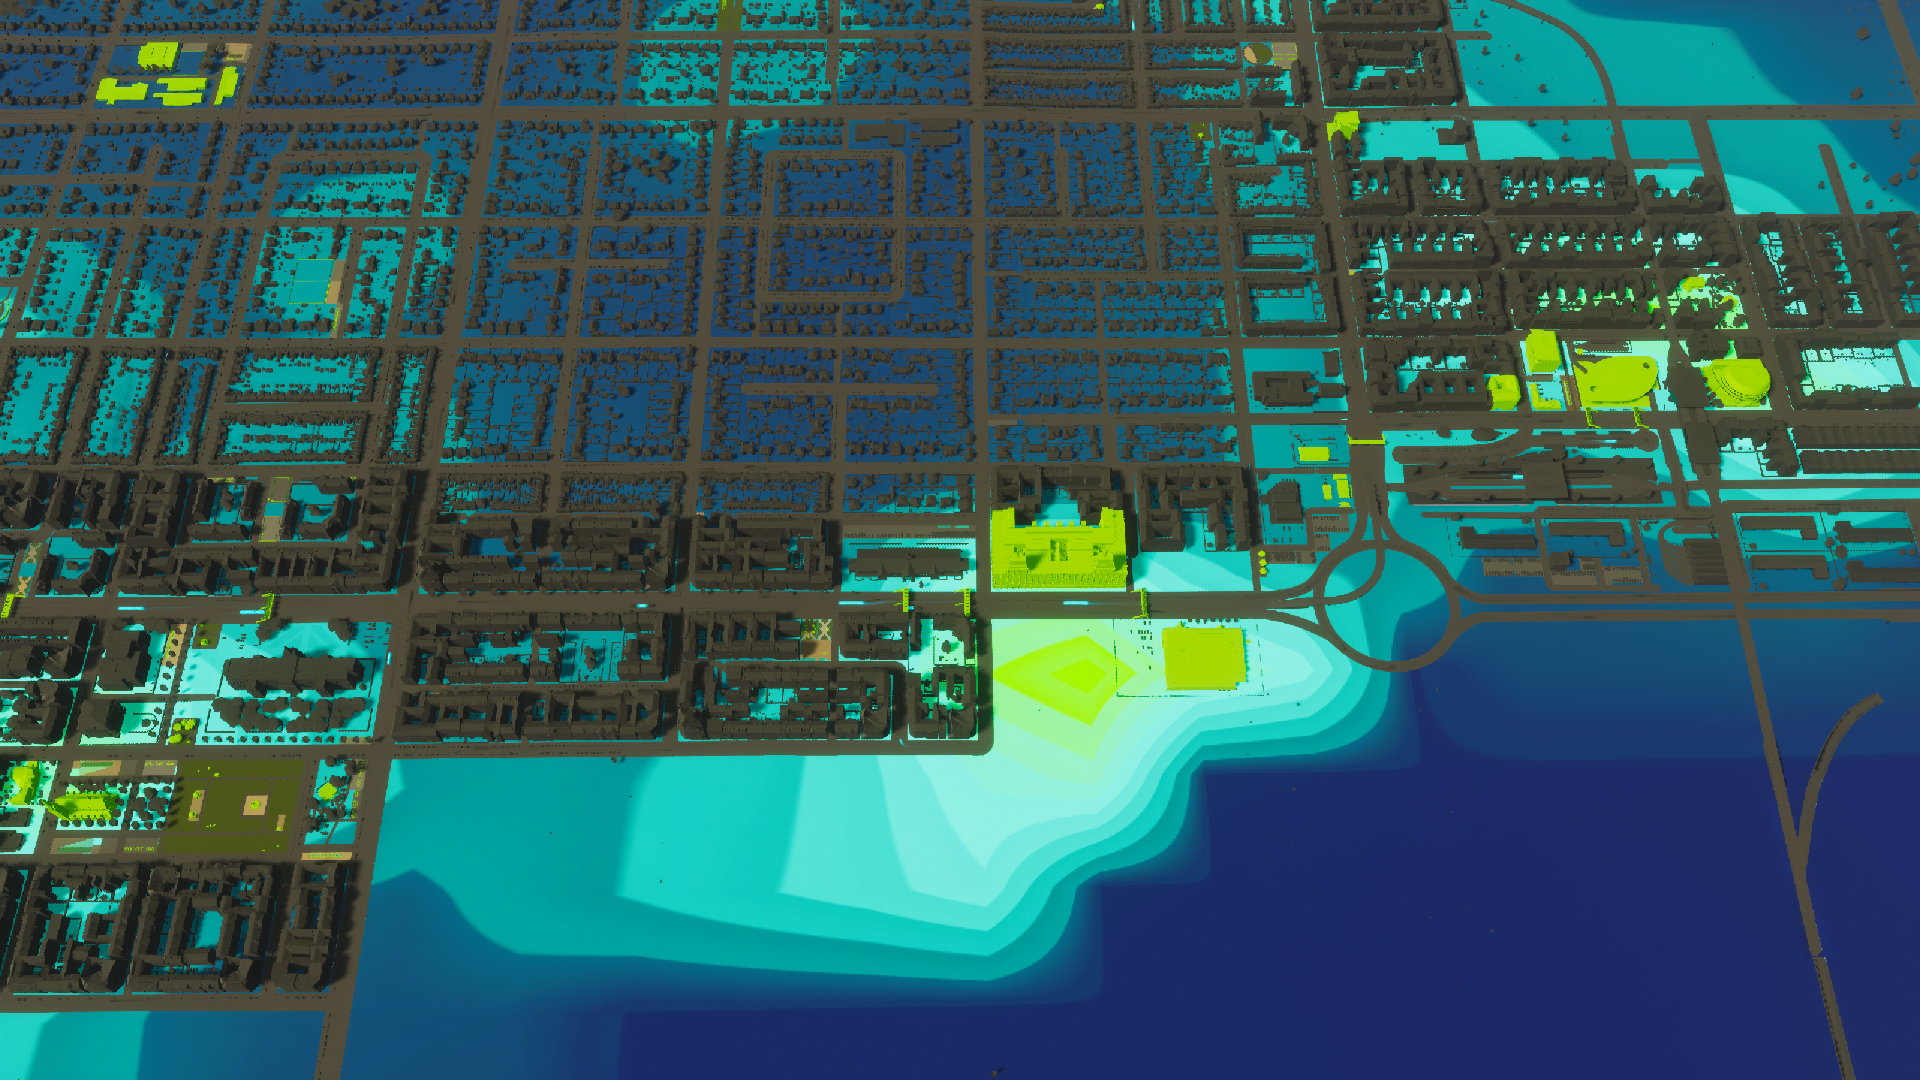
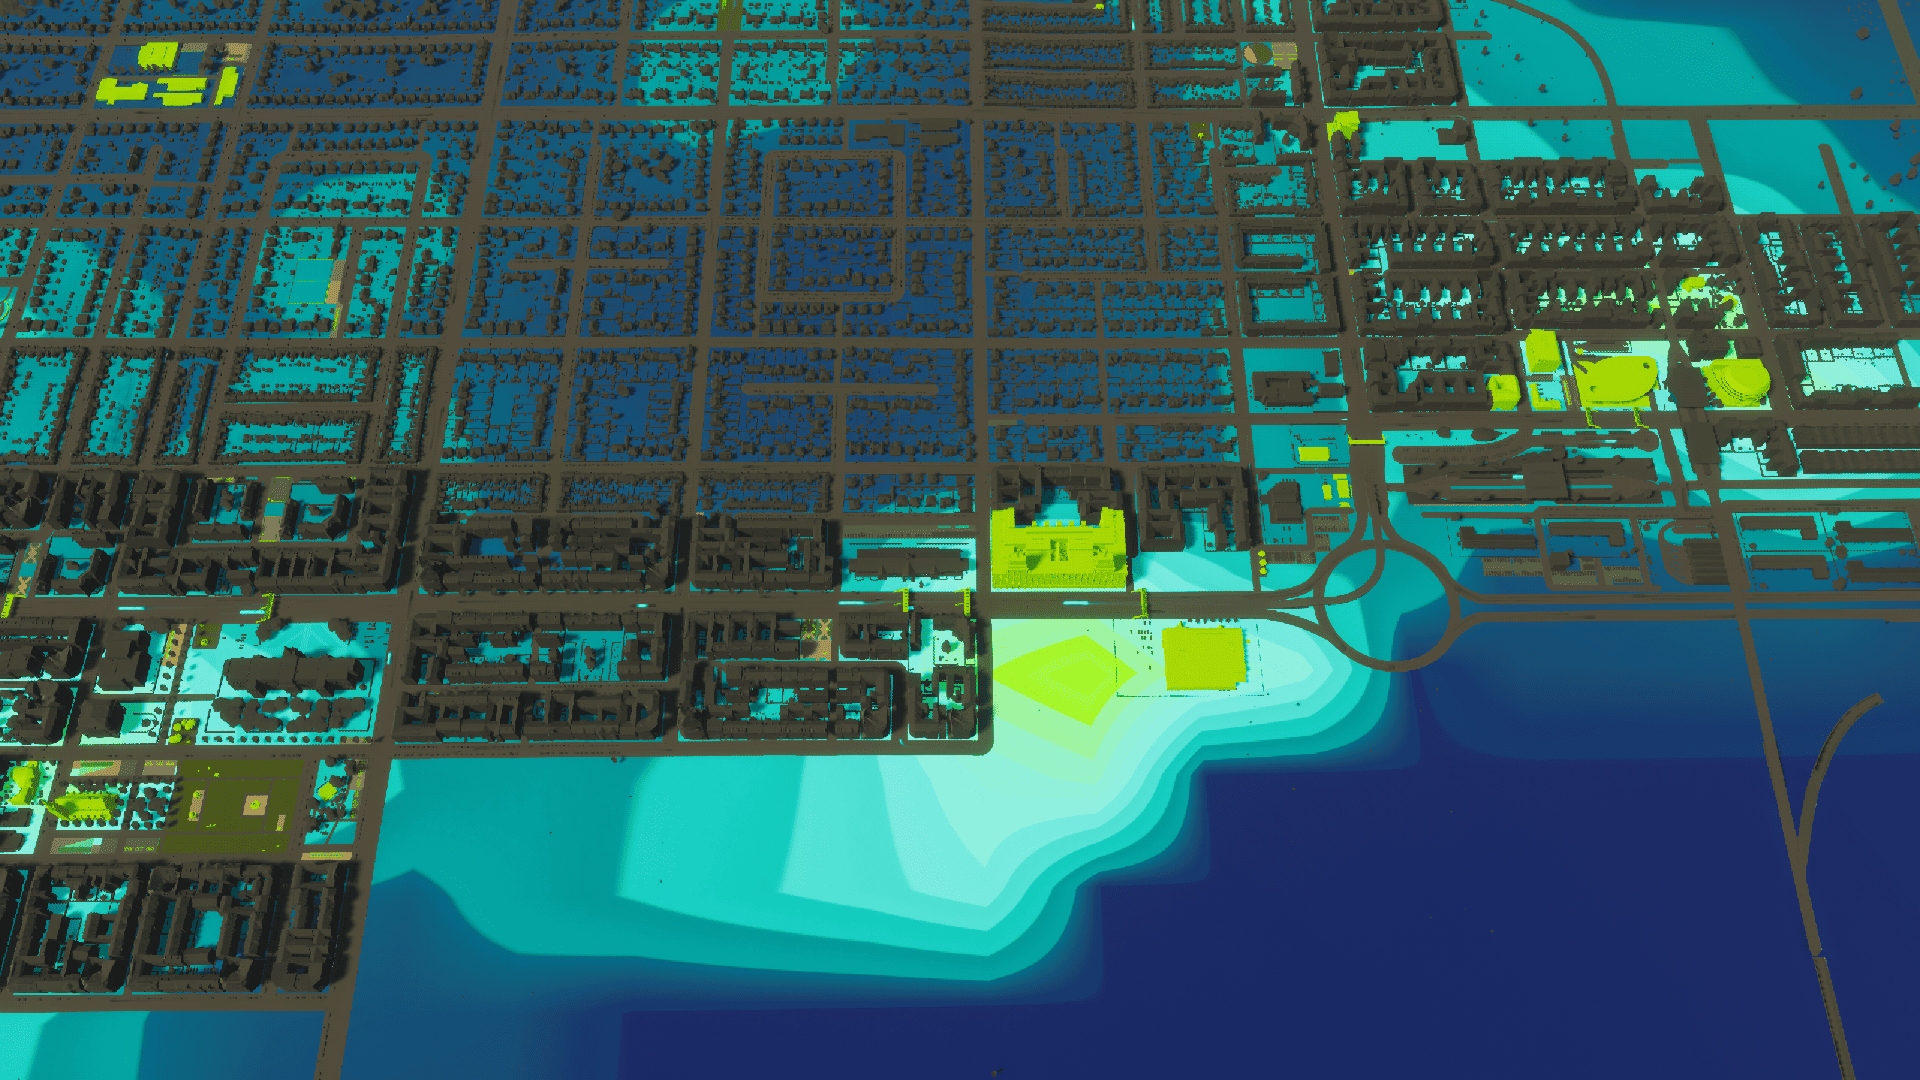
add github

diff --git a/README_FR.md b/README_FR.md
@@ -1,20 +1,20 @@
 # Customize It
 
-Un mod pour **Cities: Skylines II** qui permet de modifier les valeurs d'attractivite des batiments directement en jeu.
+Un mod pour **Cities: Skylines II** qui permet de modifier les valeurs d'attractivite des monuments directement en jeu.
 
 ## Fonctionnalites
-- Selectionnez un batiment avec de l'attractivite et un panneau d'edition apparait
+- Selectionnez un monument et un panneau d'edition apparait
 - Curseur pour regler l'attractivite de **0 a 500**
 - Bouton **Restaurer par defaut** pour revenir aux valeurs d'origine
-- Les changements s'appliquent immediatement a tous les batiments du meme type
+- Les changements s'appliquent immediatement a tous les monuments du meme type
 - Les modifications sont sauvegardees entre les parties
 
 ## Langues
 - Anglais, Francais
 
 ## Comment ca marche
-- Cliquez sur un batiment en jeu
-- Si le batiment possede une valeur d'attractivite, le panneau Customize It s'affiche a droite de l'ecran
+- Cliquez sur un monument en jeu
+- Le panneau Customize It s'affiche a droite de l'ecran
 - Deplacez le curseur ou entrez une valeur, puis cliquez sur **Appliquer**
 - La modification est sauvegardee automatiquement et rechargee a la prochaine partie
 
@@ -24,7 +24,7 @@ Un mod pour **Cities: Skylines II** qui permet de modifier les valeurs d'attract
 ## Compatibilite
 - Peut etre retire a tout moment. Restaurez toutes les modifications par defaut avant de desinstaller pour retrouver les valeurs d'origine.
 - Pas de Harmony / pas de Reflection.
-- Evitez d'utiliser plusieurs mods qui modifient l'attractivite des batiments en meme temps.
+
 
 ## Fichier de configuration
 `ModsSettings/CustomizeIt/CustomizeIt.coc`
@@ -33,10 +33,10 @@ Un mod pour **Cities: Skylines II** qui permet de modifier les valeurs d'attract
 
 | Fonctionnalite | Description |
 |----------------|-------------|
-| Curseur d'attractivite | Reglez l'attractivite de n'importe quel batiment entre **0 et 500**. |
-| Restaurer par defaut | Remet le batiment a sa valeur d'attractivite d'origine. |
+| Curseur d'attractivite | Reglez l'attractivite de n'importe quel monument entre **0 et 500**. |
+| Restaurer par defaut | Remet le monument a sa valeur d'attractivite d'origine. |
 | Sauvegarde persistante | Vos modifications sont sauvegardees et automatiquement appliquees au chargement. |
-| Modification par prefab | Modifier un batiment affecte tous les batiments places du meme type. |
+| Modification par prefab | Modifier un monument affecte tous les monuments places du meme type. |
 
 ## Licence
 

diff --git a/README.md b/README.md
@@ -1,20 +1,20 @@
 # Customize It
 
-A **Cities: Skylines II** mod that lets you tweak building attractiveness values directly in-game.
+A **Cities: Skylines II** mod that lets you tweak landmark attractiveness values directly in-game.
 
 ## What it does
-- Select any building with attractiveness and an editor panel pops up
+- Select any landmark and an editor panel pops up
 - Slider to set attractiveness anywhere from **0 to 500**
 - One-click **Restore Default** to go back to vanilla values
-- Changes apply immediately to all buildings of that type
+- Changes apply immediately to all landmarks of that type
 - Overrides persist across saves and game restarts
 
 ## Languages
 - English, French
 
 ## How it works
-- Click on a building in-game
-- If the building has an attractiveness value, the Customize It panel appears on the right side of the screen
+- Click on a landmark in-game
+- The Customize It panel appears on the right side of the screen
 - Drag the slider or type a value, then hit **Apply**
 - The override is saved automatically and reloaded next time you play
 
@@ -24,7 +24,6 @@ A **Cities: Skylines II** mod that lets you tweak building attractiveness values
 ## Compatibility notes
 - Safe to remove anytime. Restore all overrides to default before uninstalling for clean vanilla values.
 - No Harmony / no Reflection.
-- Avoid running multiple mods that modify building attractiveness at the same time.
 
 ## Settings file
 `ModsSettings/CustomizeIt/CustomizeIt.coc`
@@ -33,10 +32,10 @@ A **Cities: Skylines II** mod that lets you tweak building attractiveness values
 
 | Feature | Description |
 |---------|-------------|
-| Attractiveness slider | Set any building's attractiveness between **0 and 500**. |
-| Restore Default | Reverts the building back to its vanilla attractiveness value. |
+| Attractiveness slider | Set any landmark's attractiveness between **0 and 500**. |
+| Restore Default | Reverts the landmark back to its vanilla attractiveness value. |
 | Persistent overrides | Your changes are saved and automatically reapplied on game load. |
-| Per-prefab changes | Changing one building affects all placed buildings of the same type. |
+| Per-prefab changes | Changing one landmark affects all placed landmarks of the same type. |
 
 ## License
 